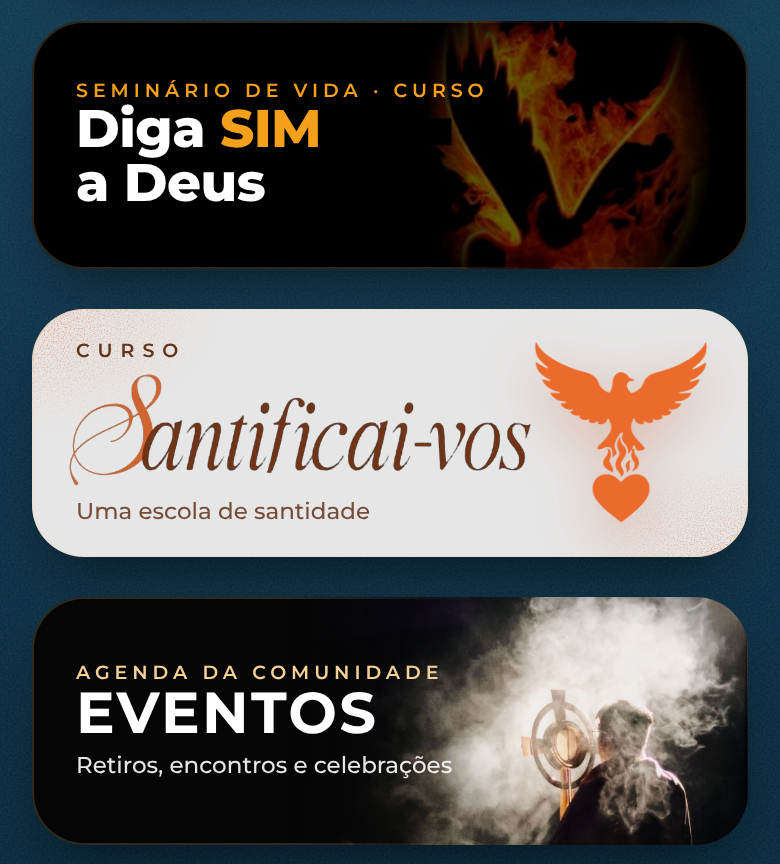
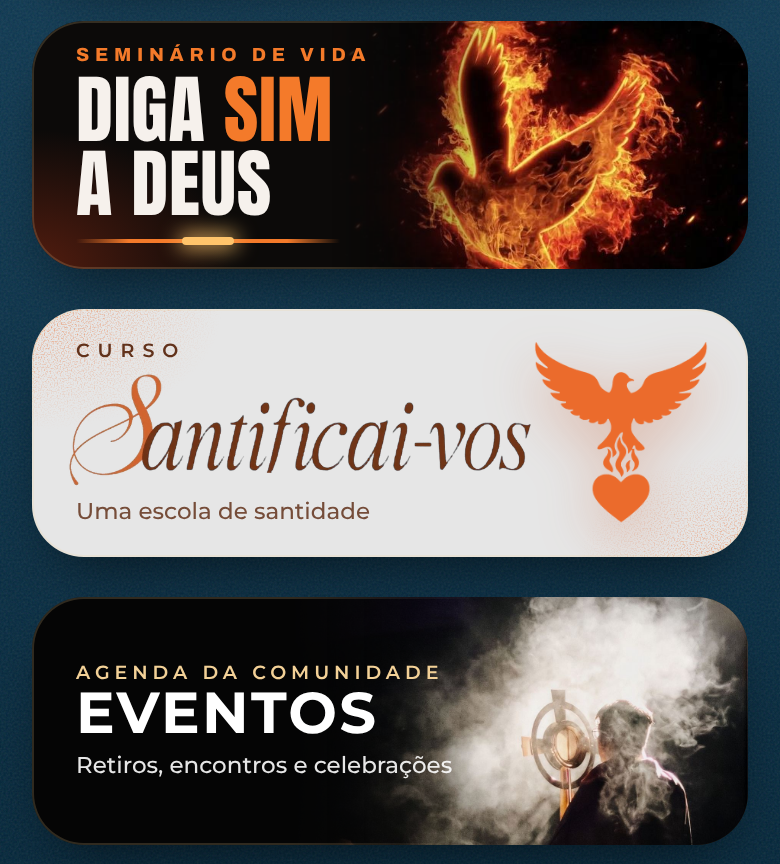
Links: card Diga SIM a Deus com a identidade do manual (Anton, Fogo, pomba de fogo)
Claude-Session: https://claude.ai/code/session_01FbCrHFBteKdzqYMDJGtW6G

diff --git a/links/index.html b/links/index.html
@@ -13,7 +13,7 @@
 <link rel="apple-touch-icon" href="img/logo-sim.jpg">
 <link rel="preconnect" href="https://fonts.googleapis.com">
 <link rel="preconnect" href="https://fonts.gstatic.com" crossorigin>
-<link href="https://fonts.googleapis.com/css2?family=Montserrat:wght@400;500;600;700;800&family=Pinyon+Script&family=Playfair+Display:ital,wght@0,600;0,800;1,600;1,800&display=swap" rel="stylesheet">
+<link href="https://fonts.googleapis.com/css2?family=Anton&family=Archivo:wght@500;700;800;900&family=Montserrat:wght@400;500;600;700;800&family=Pinyon+Script&family=Playfair+Display:ital,wght@0,600;0,800;1,600;1,800&display=swap" rel="stylesheet">
 <style>
   /* Paleta da apresentação "30 anos" */
   :root {
@@ -107,13 +107,25 @@
   .c-kairos { --veu: linear-gradient(90deg, rgba(4,38,58,.94) 0%, rgba(4,38,58,.6) 55%, rgba(4,38,58,.1)); }
   .c-kairos .selo { position: absolute; right: 12px; top: 50%; transform: translateY(-50%); height: 82%; width: auto; filter: drop-shadow(0 6px 14px rgba(0,0,0,.5)); }
 
-  /* 3 · Seminário Diga SIM a Deus — pomba de fogo */
-  .c-seminario { background: #000; }
-  .c-seminario .foto { width: 46%; height: auto; aspect-ratio: 700 / 880; top: 50%; right: 3%; transform: translateY(-50%);
-    -webkit-mask-image: radial-gradient(farthest-side, #000 55%, transparent 92%); mask-image: radial-gradient(farthest-side, #000 55%, transparent 92%); }
-  .c-seminario small { color: #f5a01a; }
-  .c-seminario strong { font-family: var(--sans); font-weight: 800; letter-spacing: -.01em; font-size: clamp(22px, 6.8vw, 30px); }
-  .c-seminario strong span { color: #f5a01a; }
+  /* 3 · Seminário Diga SIM a Deus — identidade própria: fogo no escuro */
+  .c-seminario {
+    --d-noite: #0c0a09; --d-fogo: #f47a2a; --d-brasa: #d9401a; --d-brilho: #ffc46b; --d-marfim: #f6f1ec; --d-cinza: #b9aca1;
+    background:
+      radial-gradient(40% 80% at 0% 100%, rgba(217,64,26,.35), transparent 70%),
+      var(--d-noite);
+    color: var(--d-marfim);
+  }
+  .c-seminario .foto { width: 58%; object-position: 50% 52%;
+    -webkit-mask-image: linear-gradient(90deg, transparent, #000 40%); mask-image: linear-gradient(90deg, transparent, #000 40%); }
+  .c-seminario small { font-family: "Archivo", var(--sans); font-weight: 800; letter-spacing: .3em; color: var(--d-fogo); }
+  .c-seminario strong { font-family: "Anton", var(--sans); font-weight: 400; text-transform: uppercase; letter-spacing: .01em;
+    font-size: clamp(30px, 9.6vw, 42px); line-height: .98; margin-top: 4px; }
+  .c-seminario strong span { color: var(--d-fogo); }
+  /* divisor com faísca */
+  .c-seminario .faisca { display: block; position: relative; width: 132px; height: 2px; margin-top: 10px;
+    background: linear-gradient(90deg, transparent, var(--d-fogo) 20%, var(--d-fogo) 80%, transparent); }
+  .c-seminario .faisca::after { content: ""; position: absolute; left: 50%; top: 50%; width: 26px; height: 4px; border-radius: 4px;
+    transform: translate(-50%, -50%); background: var(--d-brilho); box-shadow: 0 0 10px 2px rgba(255,196,107,.8); }
 
   /* 4 · Curso Santificai-vos — identidade própria (Névoa, Laranja, Marrom) */
   .c-santificai {
@@ -194,10 +206,11 @@
     </li>
     <li>
       <a class="card c-seminario" href="../site/diga-sim.html">
-        <img class="foto" src="img/pomba.jpg" alt="" loading="lazy">
+        <img class="foto" src="img/diga-sim-pomba.jpg" alt="" loading="lazy">
         <span class="txt">
-          <small>Seminário de Vida · Curso</small>
+          <small>Seminário de Vida</small>
           <strong>Diga <span>SIM</span><br>a Deus</strong>
+          <span class="faisca" aria-hidden="true"></span>
         </span>
       </a>
     </li>
